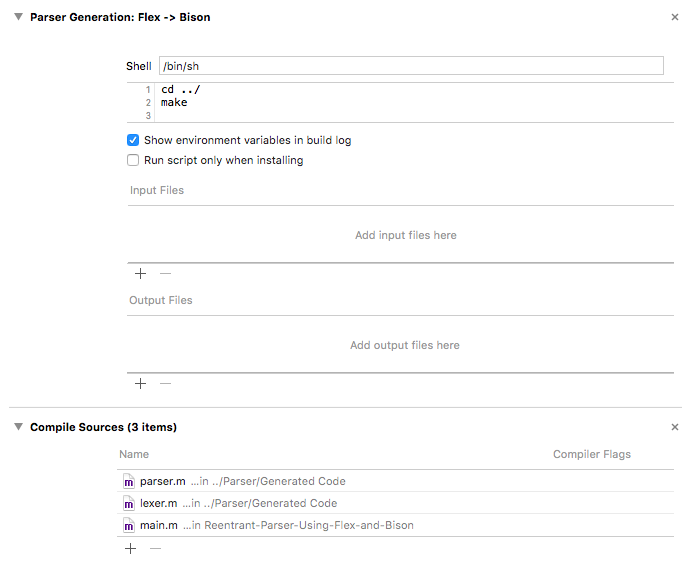
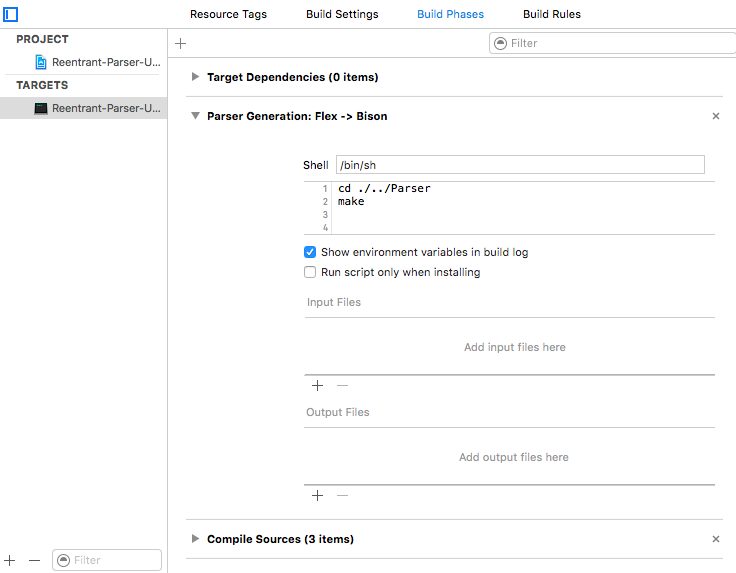
Site updated at: 2016-04-07 19:48:06 UTC

diff --git a/2016/03/29/reentrant-parser-using-flex-and-bison.html b/2016/03/29/reentrant-parser-using-flex-and-bison.html
@@ -278,53 +278,96 @@ Copyright (C) 2006 Free Software Foundation, Inc.
 
 <p>0) Xcode project and folder Parser next to it:</p>
 
-<div class="highlighter-rouge"><pre class="highlight"><code>├── Makefile
-├── Parser
-│   ├── Lexer.lm
-│   ├── Parser.ym
-│   └── ParserConsumer.h
-├── Reentrant-Parser-Using-Flex-and-Bison (Xcode project)
-└── bin
-    │── bison
-    └── flex
+<div class="highlighter-rouge"><pre class="highlight"><code>├── Parser
+│   ├── Makefile
+│   └── Source
+│       ├── Lexer.lm
+│       ├── Parser.ym
+│       └── ParserConsumer.h
+├── README.md
+└── Reentrant-Parser-Using-Flex-and-Bison
+    ├── Reentrant-Parser-Using-Flex-and-Bison
+    │   └── main.m
+    └── Reentrant-Parser-Using-Flex-and-Bison.xcodeproj
 </code></pre>
 </div>
 
-<p>1) First of all take latest Flex and Bison: <code class="highlighter-rouge">brew install flex</code> and <code class="highlighter-rouge">brew install bison</code> and copy their binaries to local <code class="highlighter-rouge">bin</code> folder of your project (this is for convenience).</p>
+<p>1) First of all get latest Flex and Bison:</p>
 
-<p>2) As described above we need to generate our lexer and parser outside of Xcode. I do this using make:</p>
+<div class="highlighter-rouge"><pre class="highlight"><code># `brew link` is needed to link against these new versions instead of default Xcode because both flex and bison are keg-only
+# See http://stackoverflow.com/questions/17015285/understand-homebrew-and-keg-only-dependencies for details
+#
+$ brew install flex &amp;&amp; brew link flex --force
+$ brew install bison &amp;&amp; brew link bison --force
 
-<div class="highlighter-rouge"><pre class="highlight"><code>generate-parser: clean flex bison
+# Later it is important to explicitly specify full path:
+# /usr/local/bin/flex
+# /usr/local/bin/bison
+# because Xcode has its own environment with 10-year-old GNU tools enabled
+
+$ /usr/local/bin/flex --version
+flex 2.6.0
+$ /usr/local/bin/bison --version
+bison (GNU Bison) 3.0.4
+Written by Robert Corbett and Richard Stallman.
+
+Copyright (C) 2015 Free Software Foundation, Inc.
+...
+</code></pre>
+</div>
+
+<p>2) As described above we need to generate our lexer and parser outside of Xcode. I do this using Make:</p>
+
+<div class="highlighter-rouge"><pre class="highlight"><code>PARSER_PATH=./Source
+PARSER_FILES=$(wildcard $(PARSER_PATH)/*)
+
+OUT_PATH=./Generated-Code
+
+generate: $(OUT_PATH)
+
+versions:
+	/usr/local/bin/flex --version
+	/usr/local/bin/bison --version
 
 clean:
-    rm -rf './Parser/Generated Code'
-    mkdir -p './Parser/Generated Code'
+	rm -rf $(OUT_PATH)
 
-flex:
-    ./bin/flex ./Parser/Lexer.lm
+$(OUT_PATH): $(PARSER_FILES)
+	mkdir -p $(OUT_PATH)
 
-bison:
-    ./bin/bison -d ./Parser/Parser.ym
+	/usr/local/bin/flex --header-file=$(OUT_PATH)/Lexer.h --outfile=$(OUT_PATH)/Lexer.m $(PARSER_PATH)/Lexer.lm 
+	/usr/local/bin/bison --defines=$(OUT_PATH)/Parser.h --output=$(OUT_PATH)/Parser.m $(PARSER_PATH)/Parser.ym
+	touch $(OUT_PATH)
 </code></pre>
 </div>
 
-<p>the resulting file structure:</p>
+<p>To run:</p>
 
-<div class="highlighter-rouge"><pre class="highlight"><code>├── Makefile
-├── Parser
-│   ├── Generated\ Code (this appears only with 'make generate-parser)
-│   │   ├── lexer.h
-│   │   ├── lexer.m
-│   │   ├── parser.h
-│   │   └── parser.m
-│   ├── Lexer.lm
-│   ├── Parser.ym
-│   └── ParserConsumer.h
-├── Reentrant-Parser-Using-Flex-and-Bison (Xcode project)
+<div class="highlighter-rouge"><pre class="highlight"><code>$ cd Parser &amp;&amp; make
 </code></pre>
 </div>
 
-<p>3) In Xcode add Parser folder: make sure to <strong>exclude Lexer.lm and Parser.ym</strong> from your project’s target otherwise Xcode will try to use its out-of-the-box Flex+Bison. Make sure to include the runtime-generated lexer.m and parser.m because those are your actual Parser.</p>
+<p>the resulting file structure (notice that Generated-Code folder appeared):</p>
+
+<div class="highlighter-rouge"><pre class="highlight"><code>├── Parser
+│   ├── Generated-Code
+│   │   ├── Lexer.h
+│   │   ├── Lexer.m
+│   │   ├── Parser.h
+│   │   └── Parser.m
+│   ├── Makefile
+│   └── Source
+│       ├── Lexer.lm
+│       ├── Parser.ym
+│       └── ParserConsumer.h
+├── README.md
+└── Reentrant-Parser-Using-Flex-and-Bison
+    ├── Reentrant-Parser-Using-Flex-and-Bison
+    └── Reentrant-Parser-Using-Flex-and-Bison.xcodeproj
+</code></pre>
+</div>
+
+<p>3) In Xcode add <code class="highlighter-rouge">Parser</code> folder: make sure to <strong>exclude Lexer.lm and Parser.ym</strong> from your project’s target otherwise Xcode will try to use its out-of-the-box Flex+Bison. Make sure to include the runtime-generated Lexer.m and Parser.m because those are your actual Parser.</p>
 
 <p>4) Add <code class="highlighter-rouge">make</code> as a a <a href="/images/2016-03-29-reentrant-parser-using-flex-and-bison/Example-Build-phases.png">Build Phase</a>.</p>
 
@@ -336,17 +379,19 @@ bison:
 
 <p>Flex (Lexer.lm):</p>
 
-<div class="highlighter-rouge"><pre class="highlight"><code>%option header-file = "./Parser/Generated Code/lexer.h"
-%option outfile     = "./Parser/Generated Code/lexer.m"
+<div class="highlighter-rouge"><pre class="highlight"><code>%option header-file = "./Generated Code/Lexer.h"
+%option outfile     = "./Generated Code/Lexer.m"
 </code></pre>
 </div>
 
-<p>Bison (Parser.ym:</p>
+<p>Bison (Parser.ym):</p>
 
-<div class="highlighter-rouge"><pre class="highlight"><code>%output  "Parser/Generated Code/parser.m"
-%defines "Parser/Generated Code/parser.h"
+<div class="highlighter-rouge"><pre class="highlight"><code>%output  "Generated Code/Parser.m"
+%defines "Generated Code/Parser.h"
 </code></pre>
 </div>
+
+<p>The same can be done via command-line arguments - see the Makefile above. Actually it makes more sense to keep these outside of Flex and Bison in Makefile because it is implementation detail of how you integrate <code class="highlighter-rouge">Parser</code> to your project.</p>
 
 <p>This was the only way I could resolve all import conflicts (see next).</p>
 
@@ -356,15 +401,15 @@ bison:
 
 <p>Your code:</p>
 
-<div class="highlighter-rouge"><pre class="highlight"><code>#import "parser.h"
-#import "lexer.h"
+<div class="highlighter-rouge"><pre class="highlight"><code>#import "Parser.h"
+#import "Lexer.h"
 </code></pre>
 </div>
 
 <p>Flex (Lexer.lm):</p>
 
 <div class="highlighter-rouge"><pre class="highlight"><code>%{
-#import "parser.h"
+#import "Parser.h"
 %}
 </code></pre>
 </div>
@@ -372,8 +417,8 @@ bison:
 <p>Bison (Parser.ym:</p>
 
 <div class="highlighter-rouge"><pre class="highlight"><code>%{
-#import "parser.h"
-#import "lexer.h"
+#import "Parser.h"
+#import "Lexer.h"
 %}
 </code></pre>
 </div>
